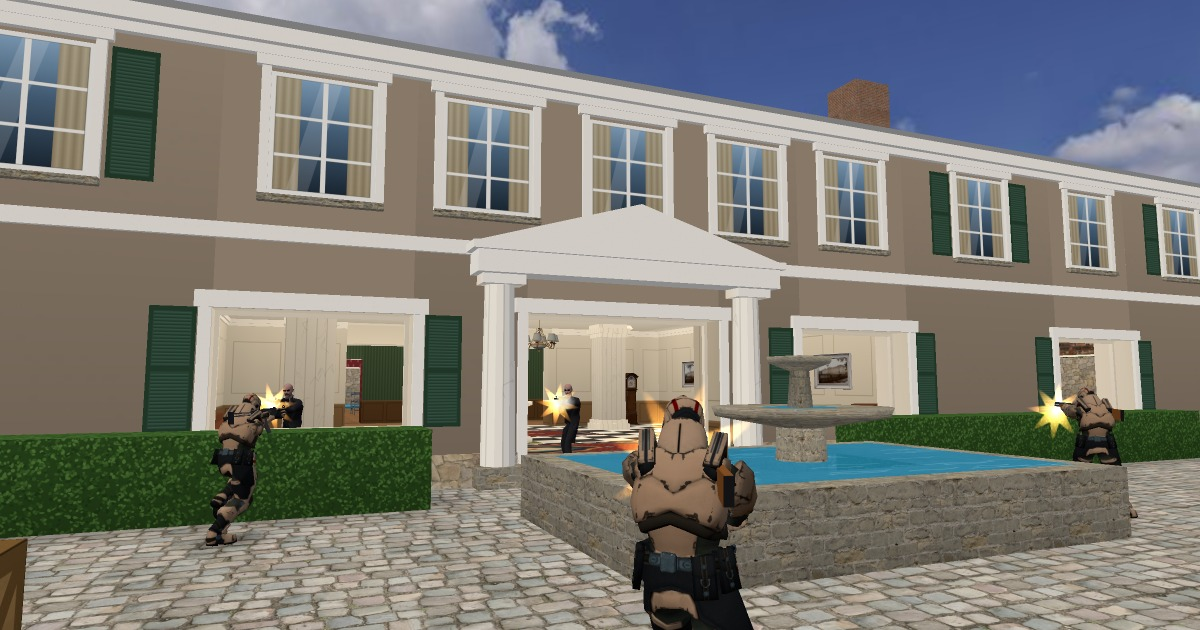
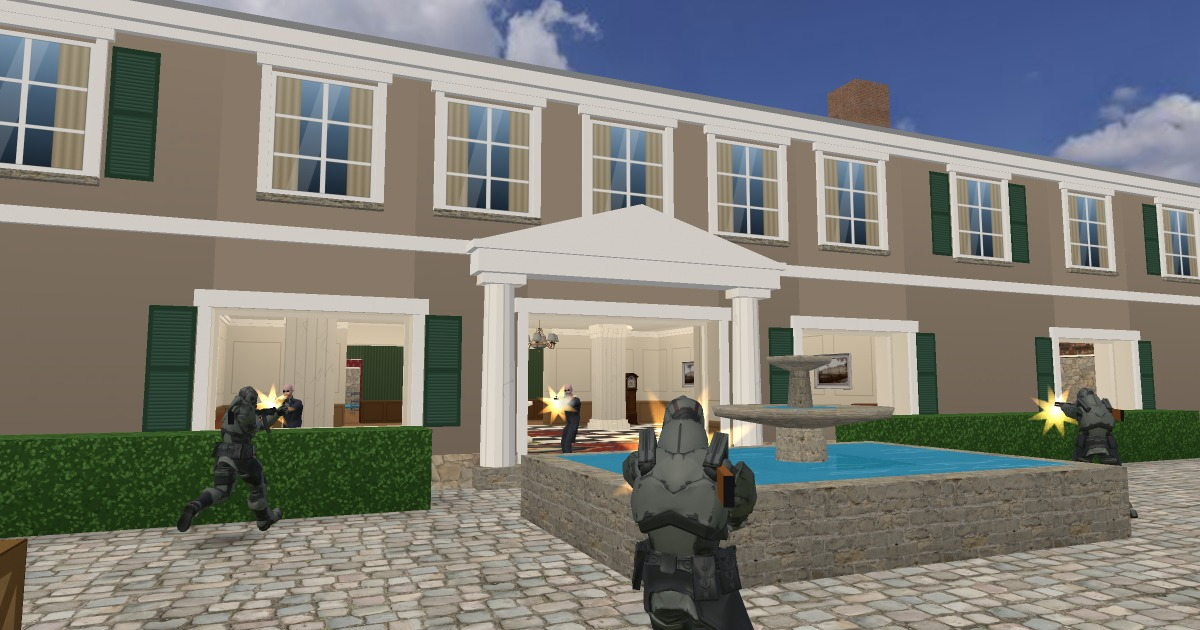
breach: characters with full materials (normal maps, highlights, sky reflections), olive-grey assault kit

diff --git a/breach/js/people.js b/breach/js/people.js
@@ -12,6 +12,10 @@ const A = { ready: false };
 export async function loadPeople() {
   const loader = new GLTFLoader();
   const [s, m, gd] = await Promise.all(['Soldier', 'Michelle', 'Guard'].map((n) => loader.loadAsync(`assets/models/${n}.glb`)));
+  // the assault team's kit in olive-grey instead of the model's sand colour
+  s.scene.traverse((o) => {
+    if (o.isMesh && /VanguardBody/i.test(o.material.name) && o.material.map) o.material.map = recolor(o.material.map, (v) => [v * 0.6, v * 0.62, v * 0.53]);
+  });
   A.soldier = prep(s.scene);
   A.civil = prep(m.scene);
   A.clips = {};
@@ -44,7 +48,24 @@ function prep(scene) {
     if (!o.isMesh) return;
     const old = o.material;
     if (old.map) old.map.colorSpace = THREE.SRGBColorSpace;
-    o.material = new THREE.MeshLambertMaterial({ map: old.map || null, color: old.map ? 0xffffff : old.color });
+    // full materials: relief from the normal maps, highlights, and the sky in the reflections (scene.environment)
+    const m = new THREE.MeshStandardMaterial({
+      map: old.map || null,
+      color: old.map ? 0xffffff : old.color,
+      normalMap: old.normalMap || null,
+      roughnessMap: old.roughnessMap || null,
+      metalnessMap: old.metalnessMap || null,
+      roughness: old.roughness ?? 0.8,
+      metalness: Math.min(0.3, old.metalness ?? 0),
+    });
+    if (old.normalMap) m.normalScale.copy(old.normalScale);
+    // the soldier's kit: a glossy visor and armour with a soft sheen
+    if (/Visor/i.test(old.name)) Object.assign(m, { roughness: 0.2, metalness: 0.6 });
+    else if (/VanguardBody/i.test(old.name)) Object.assign(m, { roughness: 0.55, metalness: 0.12 });
+    else if (/Skin|Body$/i.test(old.name)) m.roughness = Math.max(0.55, m.roughness);
+    m.name = old.name;
+    m.userData.env = 0.6;
+    o.material = m;
     o.frustumCulled = false;
   });
   return scene;
@@ -72,7 +93,7 @@ function prepGuard(scene) {
   for (const sx of [-1, 1]) parts.push(lens.clone().translate(sx * half, 0, 0));
   parts.push(new THREE.BoxGeometry(half * 0.5, 0.006, 0.006).translate(0, 0.009, 0));
   for (const sx of [-1, 1]) parts.push(new THREE.BoxGeometry(0.004, 0.006, 0.09).translate(sx * half * 1.78, 0.008, -0.045));
-  const glasses = new THREE.Mesh(mergeBoxes(parts), new THREE.MeshLambertMaterial({ color: 0x0c0d10 }));
+  const glasses = new THREE.Mesh(mergeBoxes(parts), new THREE.MeshStandardMaterial({ color: 0x0c0d10, roughness: 0.15, metalness: 0.4 }));
   glasses.position.set(mid.x, mid.y + 0.004, mid.z + 0.03);
   glasses.frustumCulled = false;
   scene.add(glasses);
@@ -105,6 +126,37 @@ function mergeBoxes(list) {
   out.setAttribute('normal', new THREE.Float32BufferAttribute(nor, 3));
   out.setIndex(idx);
   return out;
+}
+
+// keep the shading of a colour map, give it a new colour: f(brightness) -> [r, g, b] in 0..1
+function recolor(map, f) {
+  const im = map.image;
+  const c = document.createElement('canvas');
+  c.width = im.width;
+  c.height = im.height;
+  const g = c.getContext('2d');
+  g.drawImage(im, 0, 0);
+  const d = g.getImageData(0, 0, c.width, c.height), a = d.data;
+  for (let i = 0; i < a.length; i += 4) {
+    const l = (0.3 * a[i] + 0.55 * a[i + 1] + 0.15 * a[i + 2]) / 255;
+    // strong reds (the stripes) stay a muted red; everything else takes the new colour
+    if (a[i] > a[i + 1] * 1.6 && a[i] > 90) {
+      a[i] = 120 * l + 40;
+      a[i + 1] = a[i + 2] = 40 * l + 20;
+      continue;
+    }
+    const [r, gg, b] = f(0.1 + l * 0.75);
+    a[i] = Math.min(255, r * 255);
+    a[i + 1] = Math.min(255, gg * 255);
+    a[i + 2] = Math.min(255, b * 255);
+  }
+  g.putImageData(d, 0, 0);
+  const t = new THREE.CanvasTexture(c);
+  t.colorSpace = THREE.SRGBColorSpace;
+  t.flipY = map.flipY;
+  t.wrapS = map.wrapS;
+  t.wrapT = map.wrapT;
+  return t;
 }
 
 // repaint a wedding suit into a guard's black one: light, grey pixels (the shirt) stay white, the rest goes charcoal
@@ -185,7 +237,7 @@ function ik(up, fore, hand, T, pole) {
   turn(fore, _q.setFromUnitVectors(_u, _v));
 }
 
-const TINT = { A: new THREE.Color(0.8, 0.9, 1.08), B: new THREE.Color(1, 1, 1), H: new THREE.Color(1, 1, 1) };
+const TINT = { A: new THREE.Color(1, 1, 1), B: new THREE.Color(1, 1, 1), H: new THREE.Color(1, 1, 1) };
 
 export class SkinnedBody {
   constructor(look) {
@@ -381,7 +433,11 @@ export class SkinnedBody {
   }
 
   applyLight() {
-    for (const m of this.mats) m.color.copy(m.userData.base).multiply(this.tint).multiplyScalar(this.lightK);
+    for (const m of this.mats) {
+      m.color.copy(m.userData.base).multiply(this.tint).multiplyScalar(this.lightK);
+      // reflections fade in the dark rooms like the rest of the light
+      m.envMapIntensity = (m.userData.env ?? 0.6) * this.lightK * this.lightK;
+    }
     this.gunMat.color.setScalar(this.lightK);
   }
 

diff --git a/breach/index.html b/breach/index.html
@@ -35,7 +35,7 @@
 }
 </script>
 <link rel="stylesheet" href="style.css?v=6b5b80fa">
-<script type="importmap">{"imports":{"three":"./vendor/three.module.min.js","./js/actors.js":"./js/actors.js?v=190ac8a0","./js/audio.js":"./js/audio.js?v=d82d48f3","./js/bots.js":"./js/bots.js?v=b00be73f","./js/decor.js":"./js/decor.js?v=1a1a6d82","./js/fx.js":"./js/fx.js?v=c6005b38","./js/game.js":"./js/game.js?v=2975b2de","./js/guns.js":"./js/guns.js?v=36120e08","./js/hud.js":"./js/hud.js?v=344d07be","./js/i18n.js":"./js/i18n.js?v=64a492f0","./js/main.js":"./js/main.js?v=e28e4796","./js/map.js":"./js/map.js?v=723e2c47","./js/net.js":"./js/net.js?v=1a02b247","./js/netgame.js":"./js/netgame.js?v=94f560d2","./js/people.js":"./js/people.js?v=27667024","./js/props.js":"./js/props.js?v=5d57b3c5","./js/textures.js":"./js/textures.js?v=d3a717af","./js/weapons.js":"./js/weapons.js?v=734fd103"}}</script>
+<script type="importmap">{"imports":{"three":"./vendor/three.module.min.js","./js/actors.js":"./js/actors.js?v=190ac8a0","./js/audio.js":"./js/audio.js?v=d82d48f3","./js/bots.js":"./js/bots.js?v=b00be73f","./js/decor.js":"./js/decor.js?v=1a1a6d82","./js/fx.js":"./js/fx.js?v=c6005b38","./js/game.js":"./js/game.js?v=5d806cfc","./js/guns.js":"./js/guns.js?v=986a96b7","./js/hud.js":"./js/hud.js?v=344d07be","./js/i18n.js":"./js/i18n.js?v=64a492f0","./js/main.js":"./js/main.js?v=e28e4796","./js/map.js":"./js/map.js?v=723e2c47","./js/net.js":"./js/net.js?v=1a02b247","./js/netgame.js":"./js/netgame.js?v=94f560d2","./js/people.js":"./js/people.js?v=a4269d94","./js/props.js":"./js/props.js?v=5d57b3c5","./js/textures.js":"./js/textures.js?v=d3a717af","./js/weapons.js":"./js/weapons.js?v=734fd103"}}</script>
 <script type="module" src="./js/main.js?v=e28e4796"></script>
 </head>
 <body>

diff --git a/breach/js/game.js b/breach/js/game.js
@@ -338,7 +338,21 @@ export class Game {
     this.scene.add(ground);
     // sky: a photographed cloudy sky (Poly Haven, CC0) on a dome, turned so its sun sits where our light comes from
     const loader = new THREE.TextureLoader();
-    const skyTex = loader.load('assets/tex/sky.jpg');
+    // once the sky is in, it also becomes the light the characters reflect: a small copy of the dome over grey-green ground
+    const skyTex = loader.load('assets/tex/sky.jpg', (t) => {
+      if (this.disposed) return;
+      const env = new THREE.Scene();
+      const dome = new THREE.Mesh(sky, new THREE.MeshBasicMaterial({ map: t, side: THREE.BackSide }));
+      dome.scale.setScalar(0.1);
+      env.add(dome);
+      const floor = new THREE.Mesh(new THREE.CircleGeometry(40, 24).rotateX(-Math.PI / 2), new THREE.MeshBasicMaterial({ color: 0x55604a }));
+      floor.position.y = -1.5;
+      env.add(floor);
+      const pm = new THREE.PMREMGenerator(this.renderer);
+      this.envRT = pm.fromScene(env, 0.02, 0.1, 100);
+      pm.dispose();
+      this.scene.environment = this.envRT.texture;
+    });
     skyTex.colorSpace = THREE.SRGBColorSpace;
     skyTex.wrapS = THREE.RepeatWrapping;
     const SR = 380;
@@ -1875,6 +1889,8 @@ export class Game {
   }
 
   dispose() {
+    this.disposed = true;
+    this.envRT?.dispose();
     const all = [];
     this.scene.traverse((o) => all.push(o));
     this.vm.scene.traverse((o) => all.push(o));

diff --git a/breach/js/guns.js b/breach/js/guns.js
@@ -298,7 +298,7 @@ function glove(at, color, wrap = 1) {
 }
 
 export function firstPersonArms(kind, team) {
-  const sleeve = team === 'A' ? 0x2f4361 : 0x24252a;
+  const sleeve = team === 'A' ? 0x4a4e41 : 0x24252a;
   const cuff = team === 'A' ? 0x1d2126 : 0xc9c9c9;
   const gloveC = team === 'A' ? 0x23262b : 0x1a1a1c;
   const info = GUN_INFO[kind];
